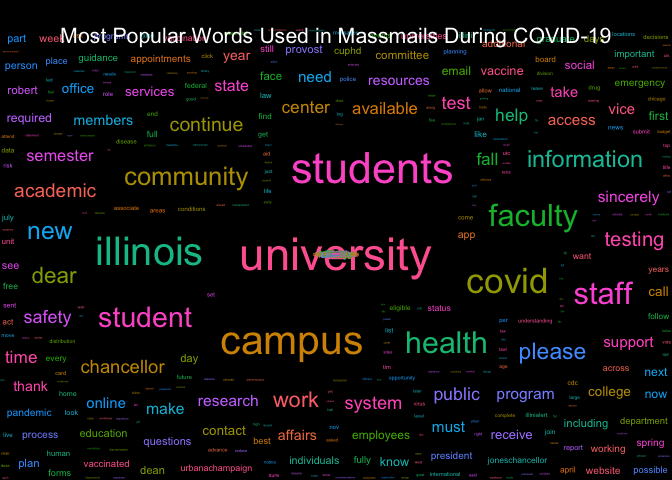
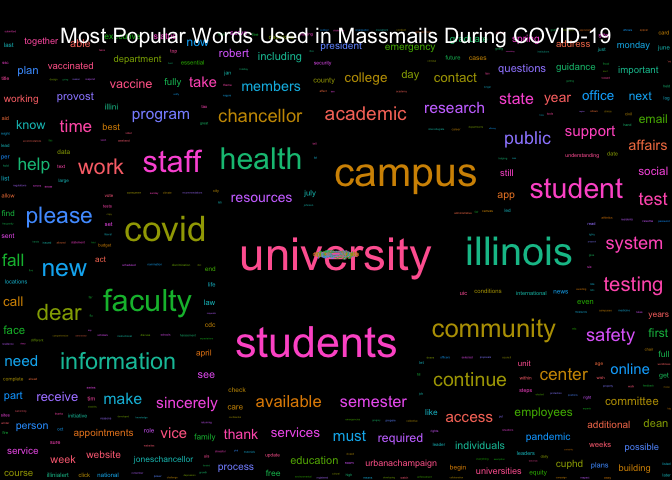
Re-build README.Rmd and Graphs

Changed region(s): [[0.0, 0.0625, 1.0, 1.0], [0.5625, 0.625, 0.6562, 0.6562]]

diff --git a/README.md b/README.md
@@ -17,7 +17,7 @@ The archive may be viewed here:
 
 <https://massmail.illinois.edu/massmailArchive>
 
-Data has **810** observations and **7** variables:
+Data has **811** observations and **7** variables:
 
 - `datetime`: Date and time when the email was sent in the form of
   `YYYY-MM-DD HMS` with either CDT or CST.
@@ -210,15 +210,15 @@ head(most_popular_words, 10) %>%
 
 | word       | freq |
 |:-----------|-----:|
-| university | 1970 |
+| university | 1973 |
 | students   | 1682 |
-| campus     | 1516 |
-| illinois   | 1333 |
+| campus     | 1526 |
+| illinois   | 1336 |
 | covid      | 1070 |
 | faculty    |  998 |
-| community  |  928 |
+| community  |  933 |
 | health     |  916 |
-| student    |  895 |
+| student    |  896 |
 | staff      |  829 |
 
 #### Wordcloud
